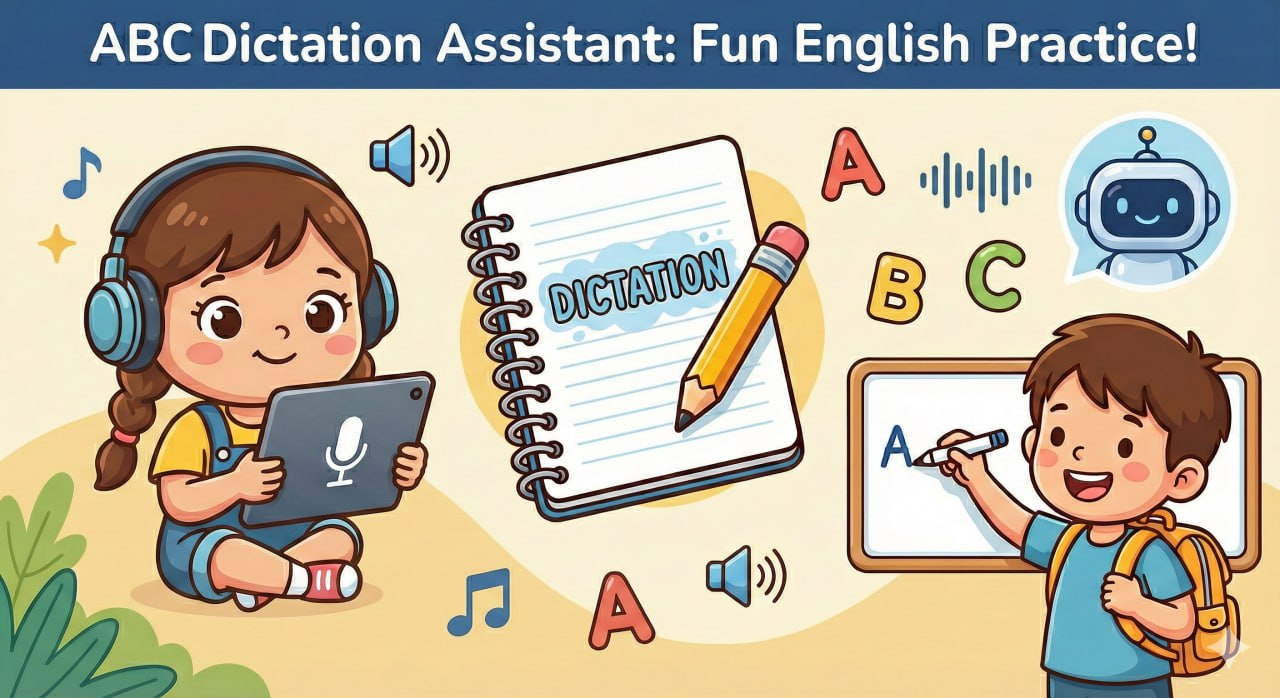
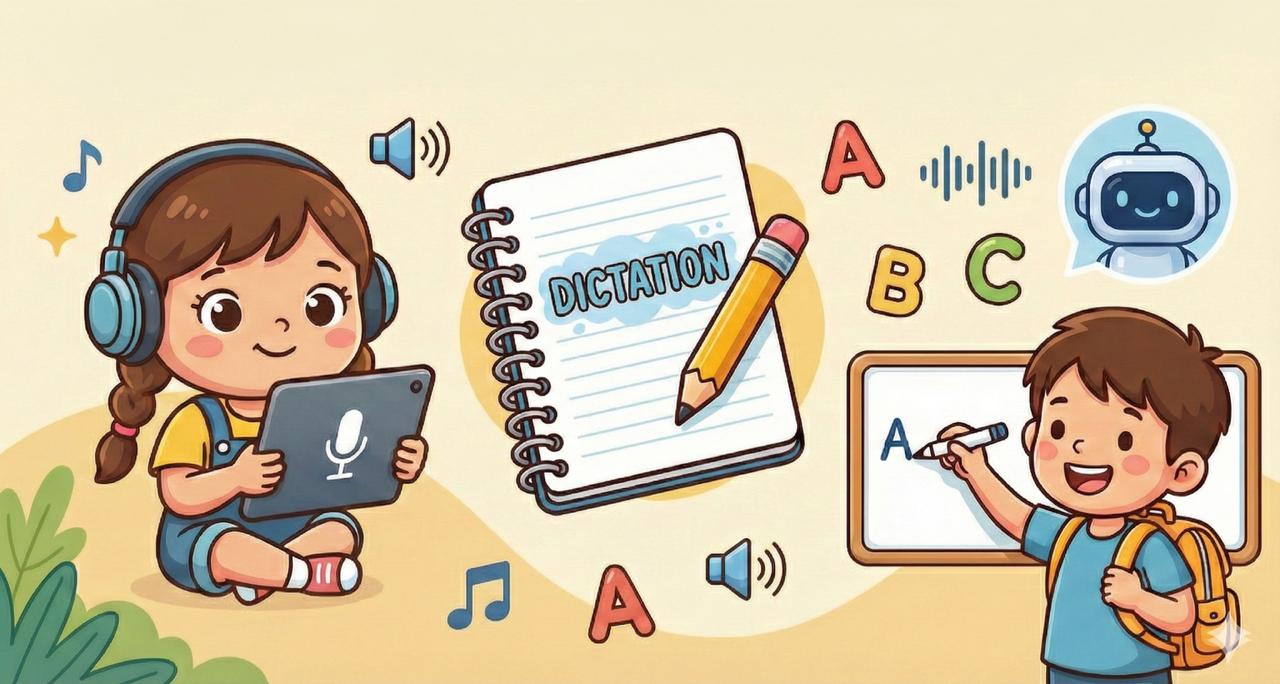
优化登录页：更换新图片、加宽容器、调整布局

diff --git a/src/pages/LoginPage.jsx b/src/pages/LoginPage.jsx
@@ -50,18 +50,35 @@ function LoginPage() {
     try {
       const supabase = getSupabase();
       
-      const { error } = await supabase.auth.signInWithOAuth({
+      // 获取当前 URL（支持 PWA 模式）
+      const currentUrl = window.location.href;
+      const baseUrl = window.location.origin;
+      
+      console.log('[LoginPage] 当前URL:', currentUrl);
+      console.log('[LoginPage] 基础URL:', baseUrl);
+      
+      const { data, error } = await supabase.auth.signInWithOAuth({
         provider: 'google',
         options: {
-          redirectTo: window.location.origin,
+          redirectTo: `${baseUrl}/`,
+          queryParams: {
+            access_type: 'offline',
+            prompt: 'consent',
+          },
         }
       });
 
       if (error) throw error;
+      
+      console.log('[LoginPage] OAuth URL:', data?.url);
+      
       // signInWithOAuth 会自动跳转到 Google
+      if (data?.url) {
+        window.location.href = data.url;
+      }
     } catch (err) {
       console.error('[LoginPage] Google 登录失败:', err);
-      setError(err.message || '登录失败');
+      setError(err.message || '登录失败，请检查 Google OAuth 是否已在 Supabase 中配置');
       setIsLoading(false);
     }
   };
@@ -95,14 +112,16 @@ function LoginPage() {
 
   return (
     <div className="min-h-screen bg-white flex items-center justify-center px-4 py-8 sm:p-4 safe-area-top safe-area-bottom safe-area-left safe-area-right no-horizontal-scroll">
-      <div className="w-full max-w-sm sm:max-w-md">
+      <div className="w-full max-w-sm sm:max-w-lg">
         {/* Logo */}
-        <div className="text-center mb-6 sm:mb-8 px-2">
-          <img src="/login-banner.jpg" alt="单词听写助手" className="w-full max-w-[280px] sm:max-w-full mx-auto mb-4 rounded-2xl" />
-          <h1 className="text-2xl font-bold text-gray-800">单词听写助手</h1>
-          <p className="text-gray-500 mt-2">登录以同步你的学习记录</p>
+        <div className="text-center mb-0 sm:mb-2 -mt-4 sm:-mt-8">
+          <img src="/login-banner.jpg" alt="单词听写助手" className="w-full mx-auto mb-1 sm:mb-2 rounded-2xl" />
+          <h1 className="text-xl sm:text-2xl font-bold text-gray-800">单词听写助手</h1>
+          <p className="text-sm sm:text-base text-gray-500 mt-1">登录以同步你的学习记录</p>
         </div>
 
+        {/* 登录表单区域 - 整体下移 */}
+        <div className="mt-8 sm:mt-12">
         {/* 错误提示 */}
         {error && (
           <div className="bg-red-50 border border-red-200 rounded-lg p-3 mb-4">
@@ -111,7 +130,7 @@ function LoginPage() {
         )}
 
         {/* Google 登录 */}
-        <div className="px-1">
+        <div>
           <button
             onClick={handleGoogleLogin}
             disabled={isLoading}
@@ -135,7 +154,7 @@ function LoginPage() {
         </div>
 
         {/* 邮箱登录 */}
-        <form onSubmit={handleEmailLogin} className="w-full px-1">
+        <form onSubmit={handleEmailLogin}>
           <div className="flex gap-2 items-center">
             <div className={`transition-all duration-500 ease-[cubic-bezier(0.4,0,0.2,1)] ${email ? 'w-[calc(100%-84px)]' : 'w-full'}`}>
               <div className="relative">
@@ -163,11 +182,12 @@ function LoginPage() {
         </form>
 
         {/* 说明 */}
-        <div className="mt-6 sm:mt-8 p-4 bg-blue-50 rounded-xl mx-1">
+        <div className="mt-4 sm:mt-6 p-4 bg-blue-50 rounded-xl">
           <p className="text-sm text-blue-700">
             💡 登录后，你的学习记录将自动同步到云端，在任何设备上都能访问。
           </p>
         </div>
+        </div>{/* 登录表单区域结束 */}
       </div>
     </div>
   );
